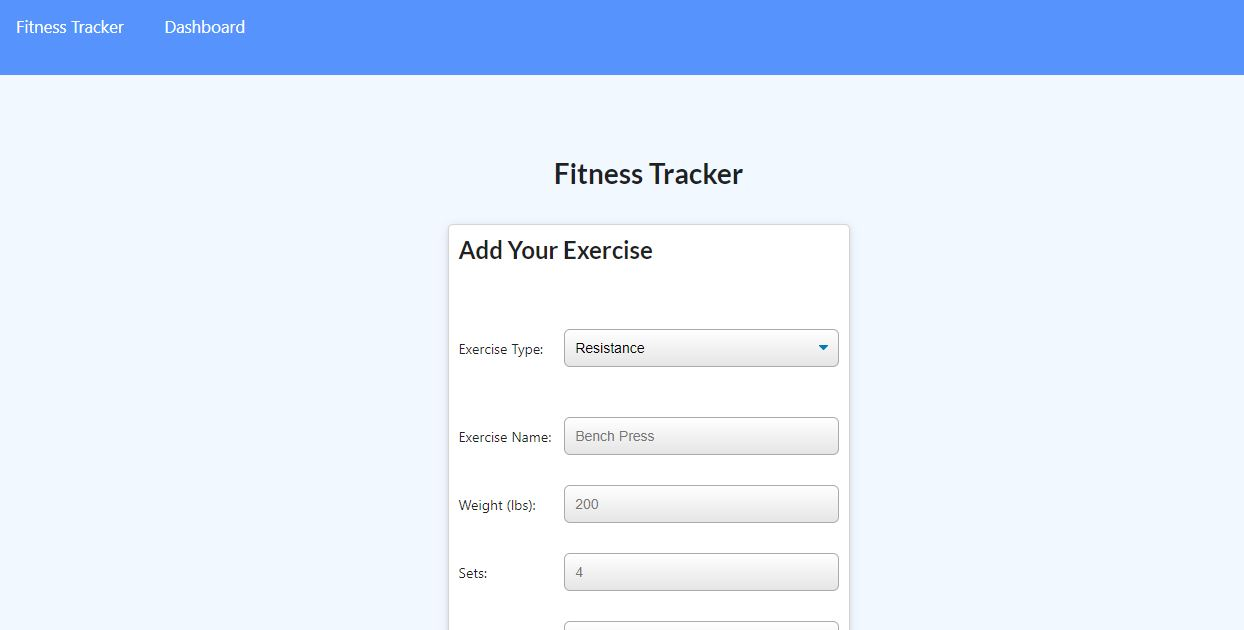
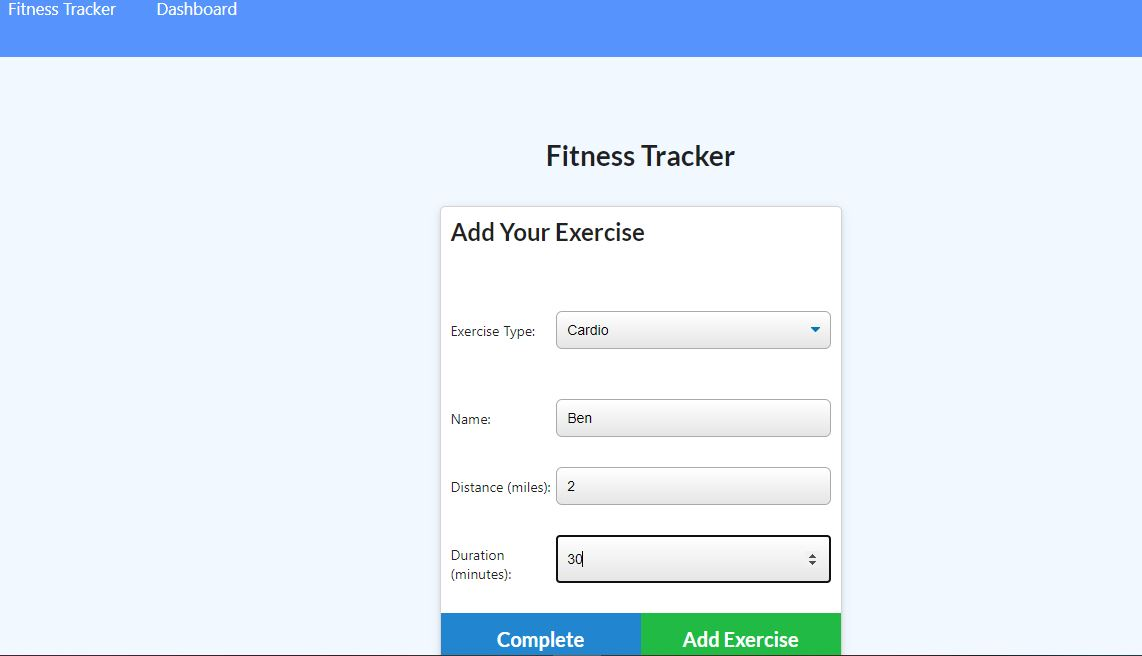
Screenshots and READMe

diff --git a/README.md b/README.md
@@ -1,1 +1,57 @@
-# Workout-Tracker
+# Workout Tracker
+  
+  # Table of Content
+  1. [Title](#Title)
+  2. [Criteria](#Criteria)
+  3. [Description](#Description)
+  4. [Installation](#Installation)
+  5. [Usage](#Usage)
+  6. [Links](#Links)
+  7. [License](#License)
+  8. [Contribution](#Contribution)
+  9. [Tests](#Tests)
+  10. [Github](#Github)
+  11. [E-mail](#Email)  
+  
+  ##Acceptance Criteria
+  All acceotance criteria fully meet. All listed at the end of this page.
+  ## Description
+  As a user, I want to be able to view create and track daily workouts.I want to be able to log multiple exercises in a workout on a given day.I should also be able to track the name, type, weight, sets, reps, and duration of exercise. If the exercise is a cardio exercise, I should be able to track my distance traveled.
+  
+  ## Installation and Technoloy used
+   `NPM install`, `MongoDB`, `Mongoose`, `Express.js`, `Node.js`, `Robo3T`, `JavaScript`, `HTML`, `CSS`, and
+   `Compression`
+  ## Usage
+  A consumer will reach their fitness goals more quickly when they track their workout progress.
+
+  ## Links
+  ![Capture1](https://user-images.githubusercontent.com/77940481/123715181-bc64d580-d845-11eb-9d4a-67f7f44c8b05.JPG) ![Capture2](https://user-images.githubusercontent.com/77940481/123715188-c1c22000-d845-11eb-985e-1563225a3143.JPG) ![Capture3](https://user-images.githubusercontent.com/77940481/123715190-c38be380-d845-11eb-93e1-6fe56835cb60.JPG)
+  
+  ## License
+  [![License: MIT](https://img.shields.io/badge/License-MIT-yellow.svg)](https://opensource.org/licenses/MIT)
+  
+  ## Contribution
+  N/A
+  
+  ## Tests
+  Only API routes were tested
+  
+  ## Github
+  https://github.com/dereatom
+  
+  ## E-mail
+  dereje@gmail.com
+
+  ## Acceptance Criteria
+
+When the user loads the page, they should be given the option to create a new workout or continue with their last workout.
+
+The user should be able to:
+
+  * Add exercises to the most recent workout plan.
+
+  * Add new exercises to a new workout plan.
+
+  * View the combined weight of multiple exercises from the past seven workouts on the `stats` page.
+
+  * View the total duration of each workout from the past seven workouts on the `stats` page.
